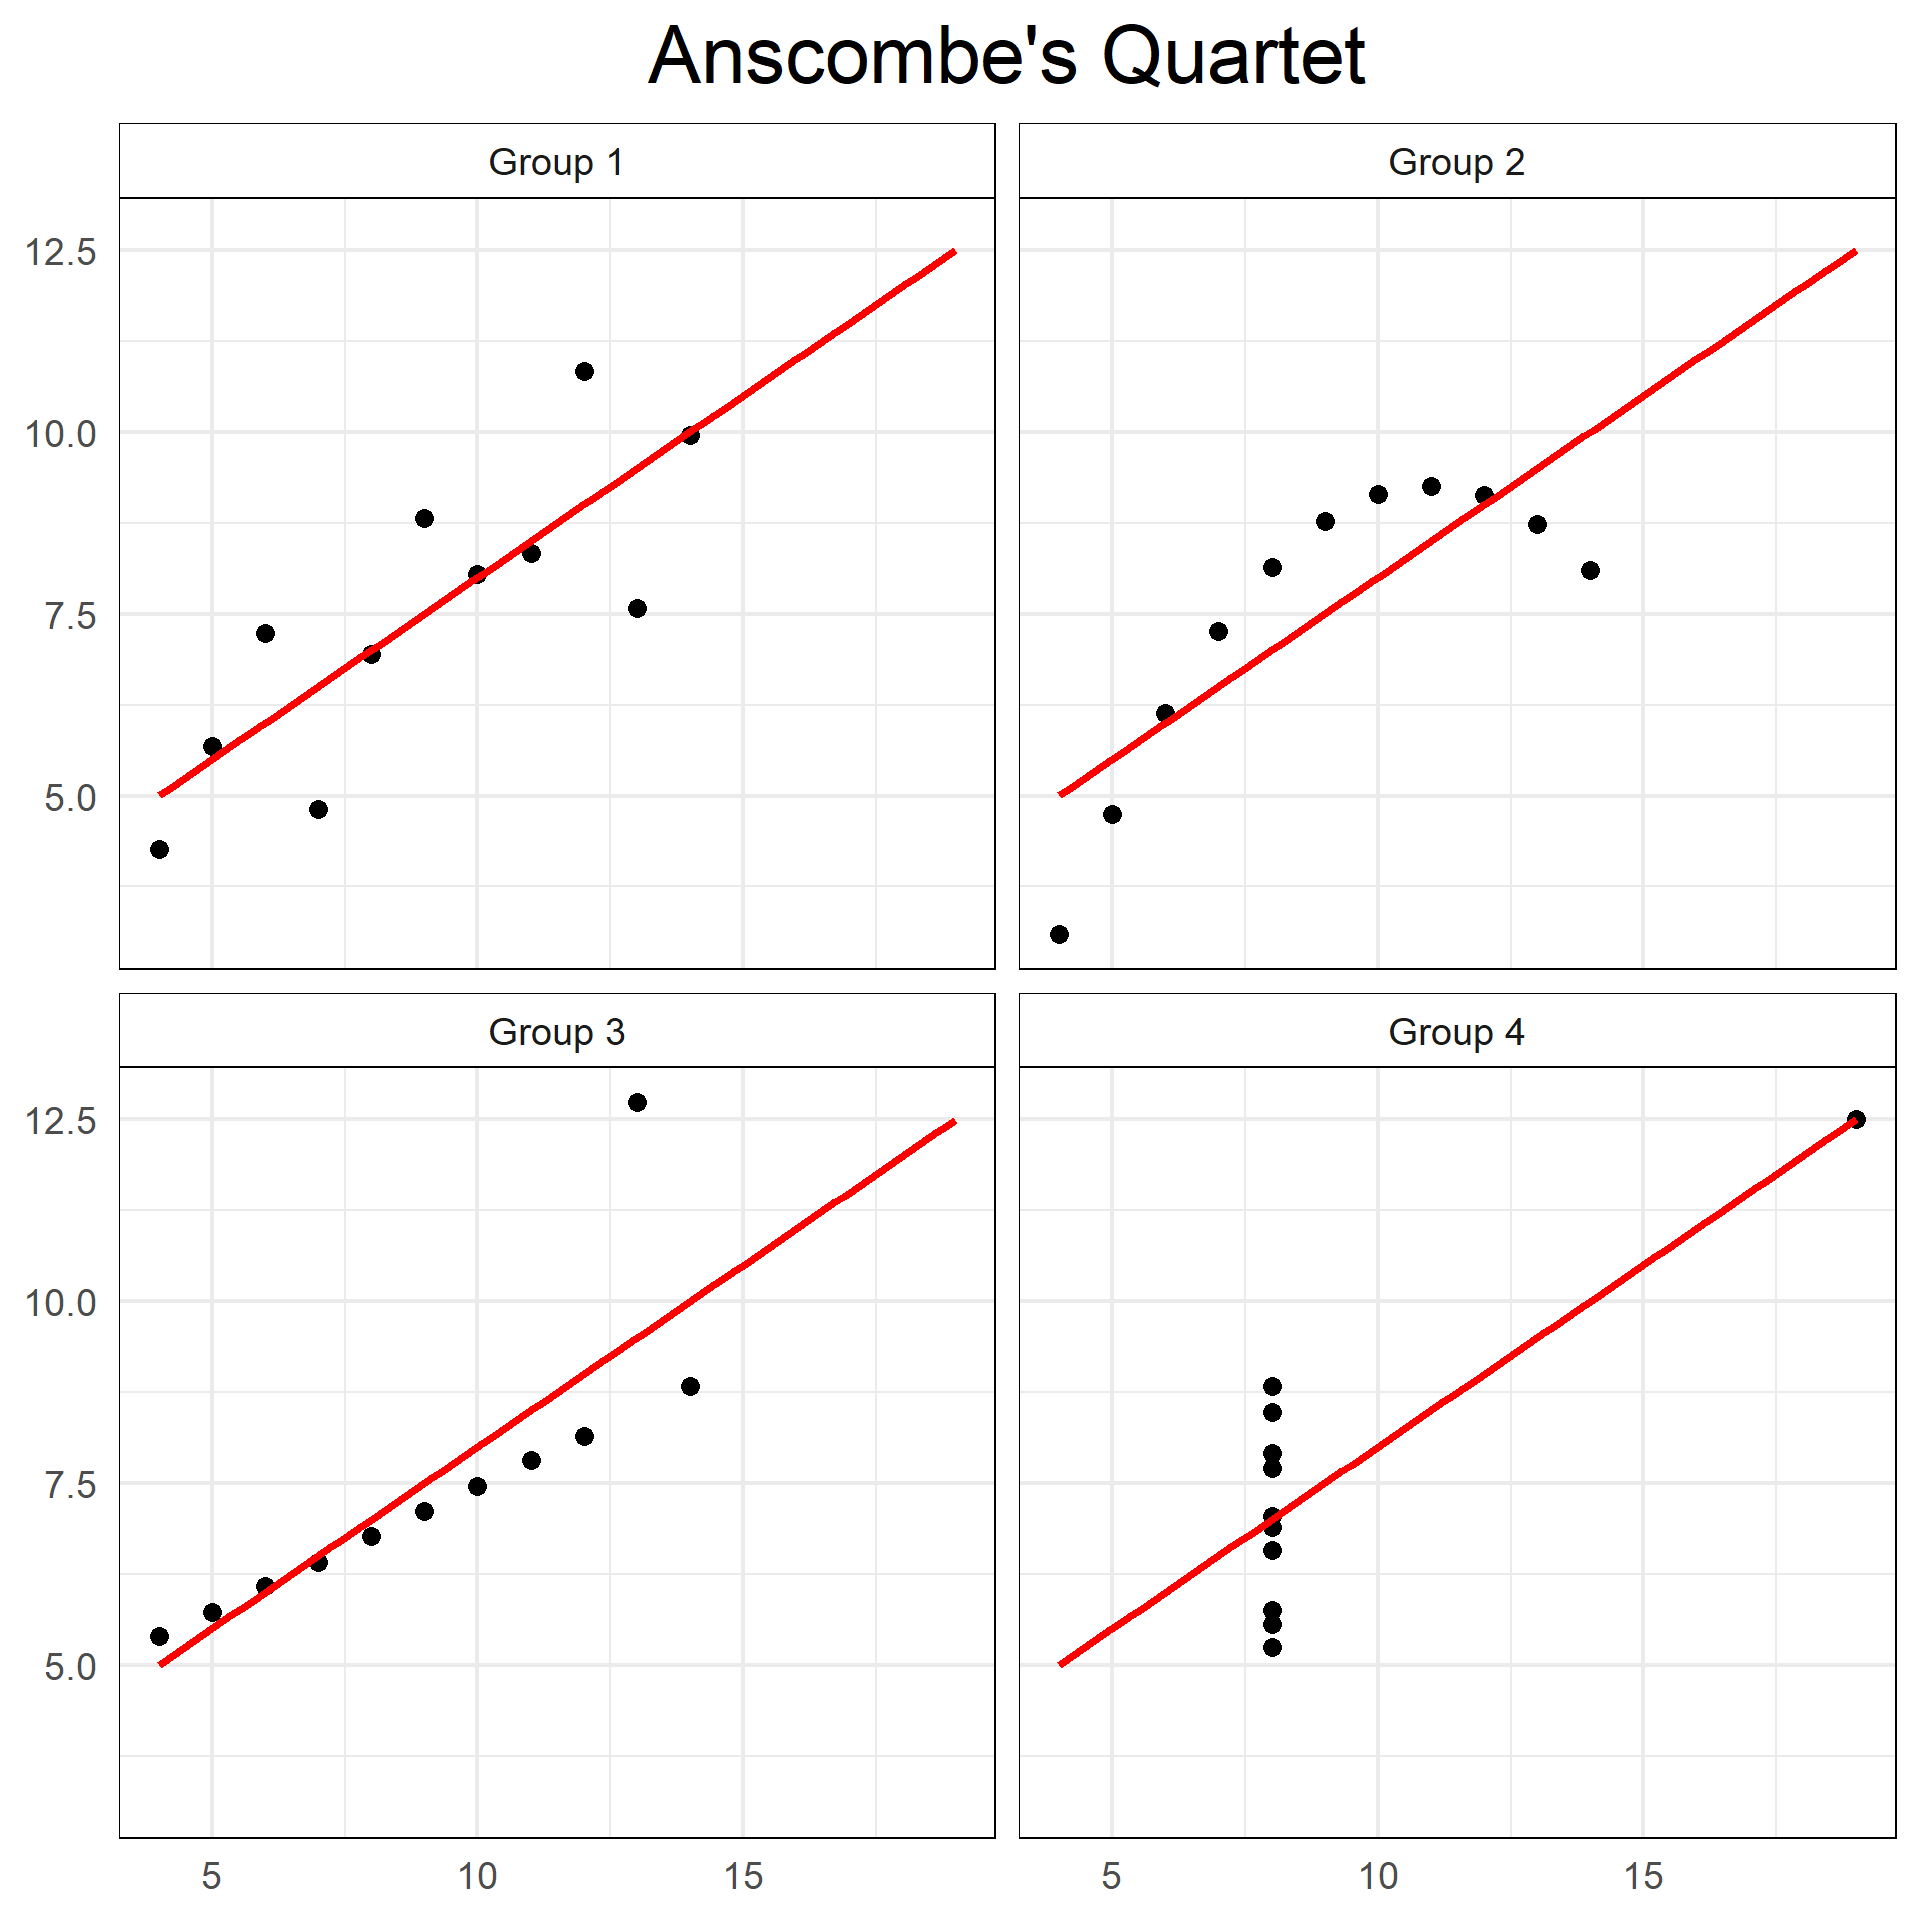
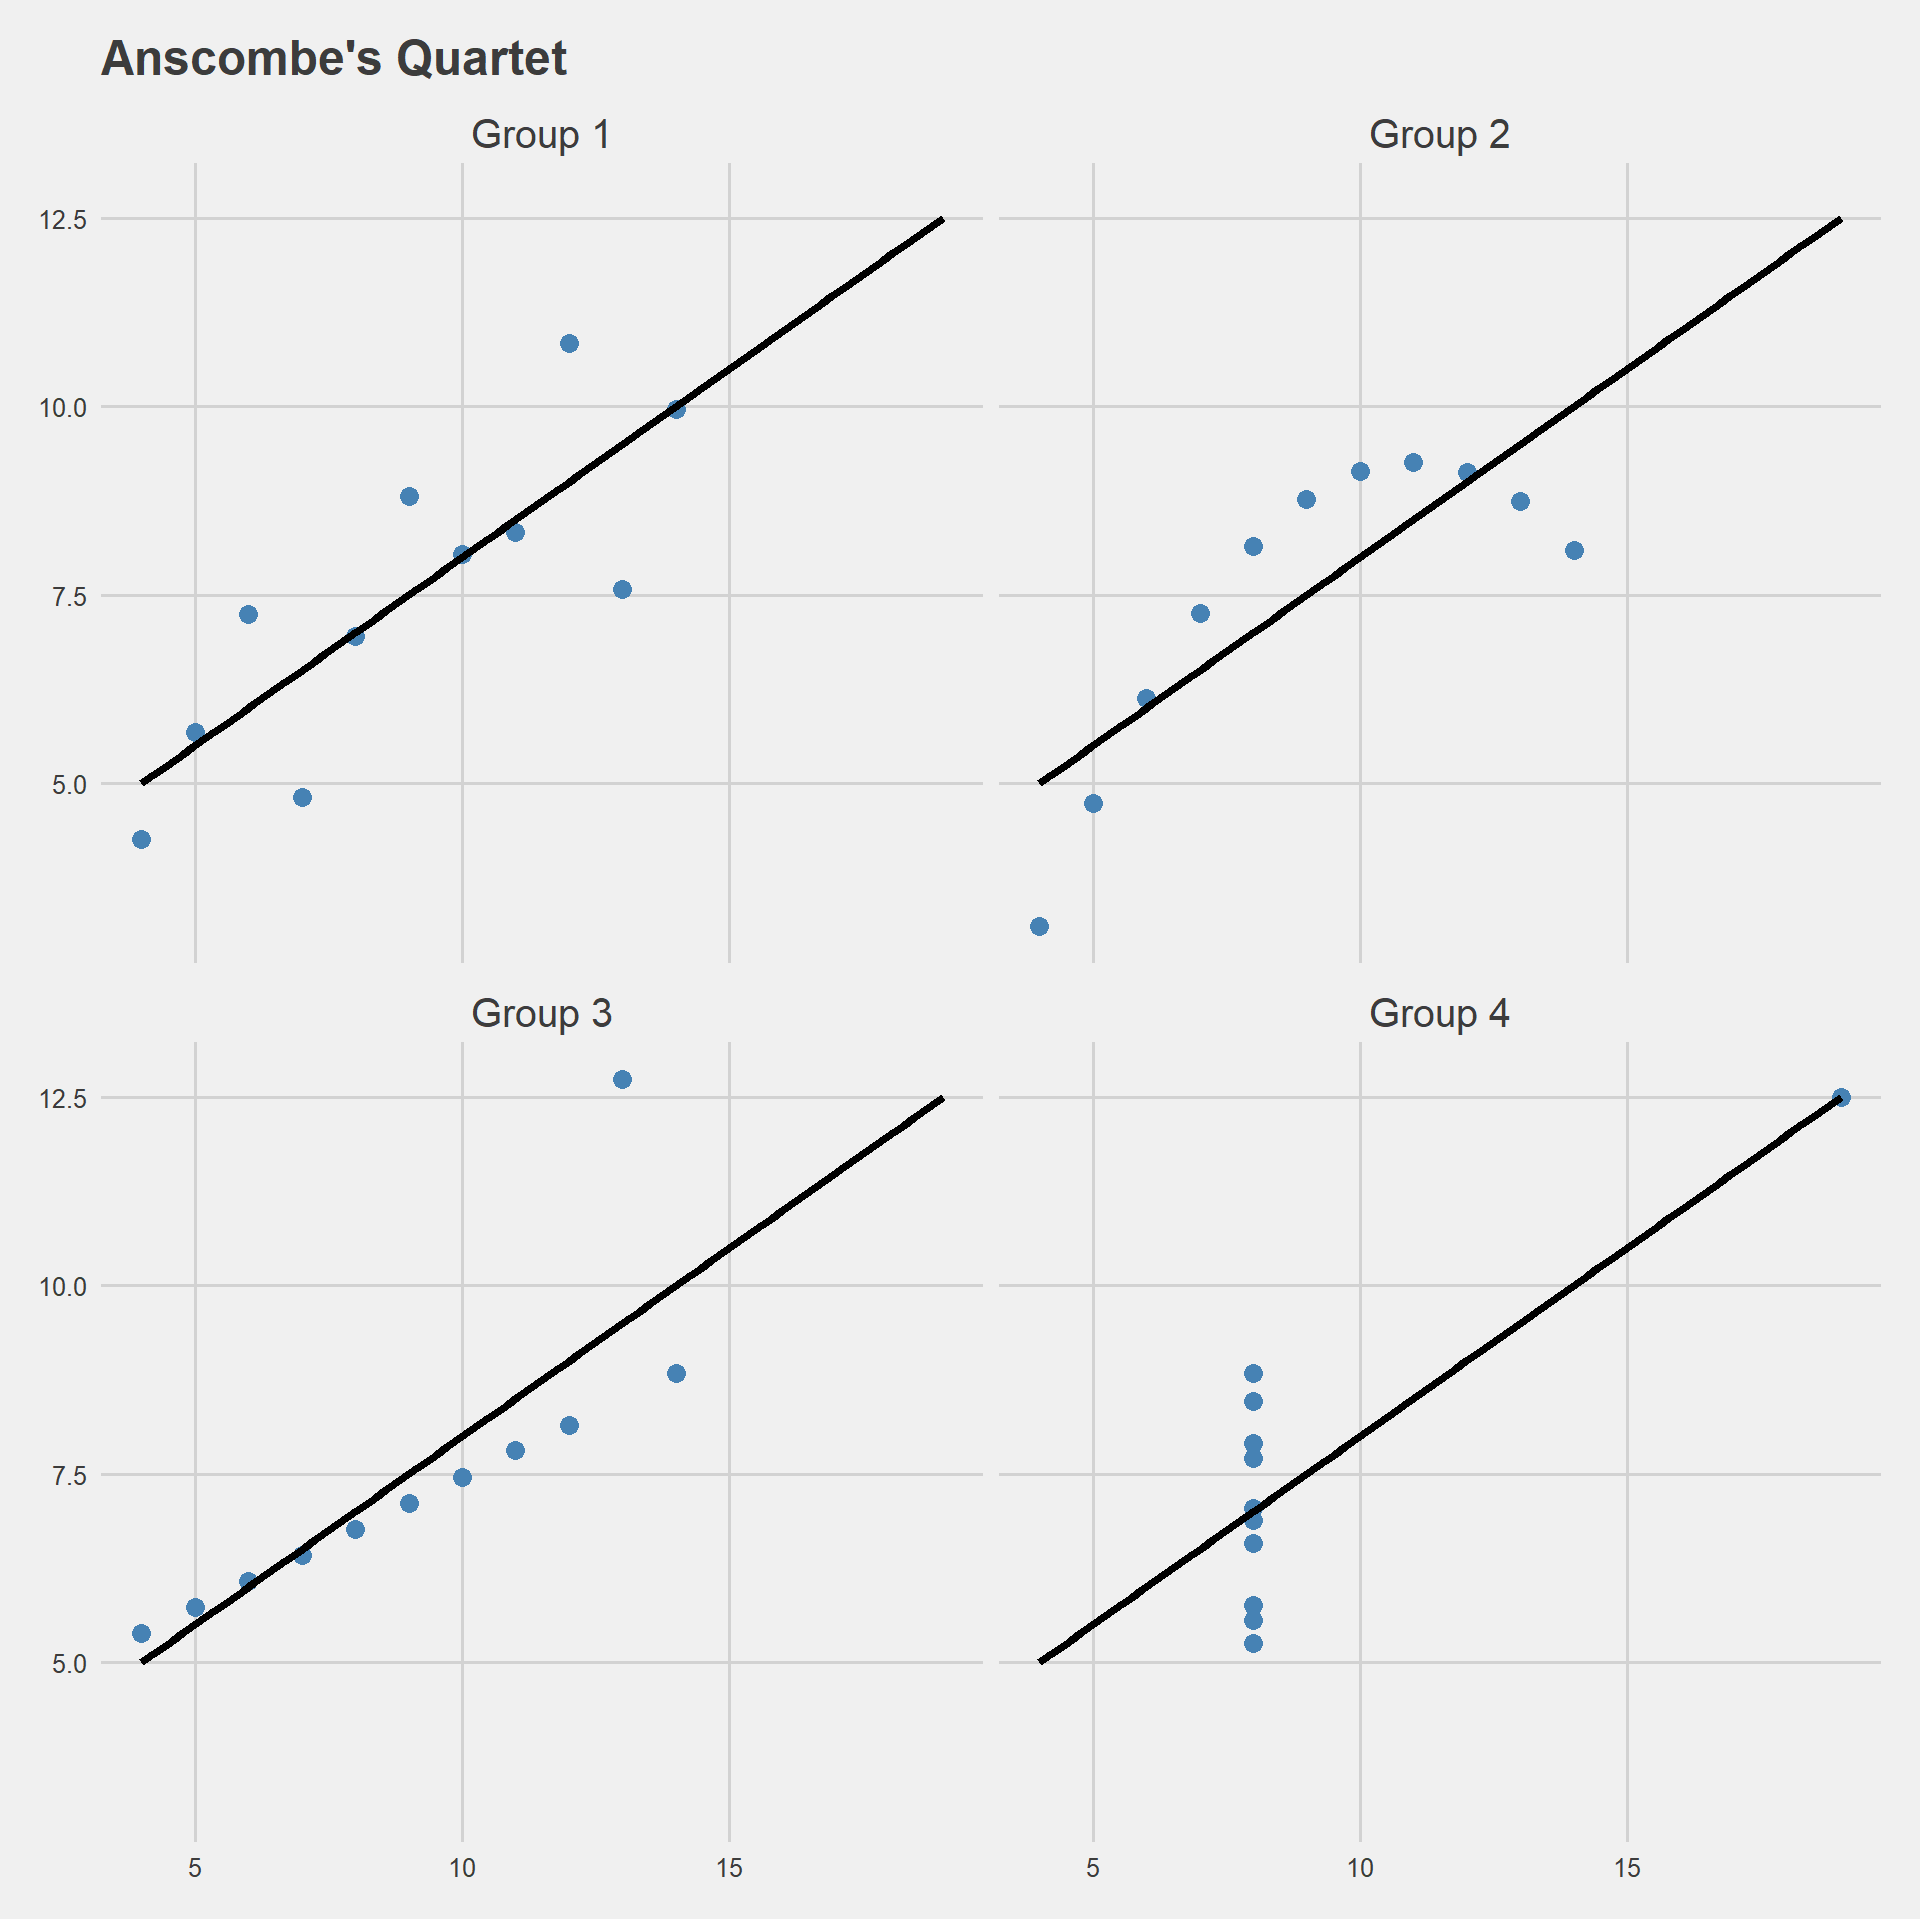
plot theme, readme with image, make csv

diff --git a/Anscombe.html b/Anscombe.html
@@ -118,7 +118,7 @@ code span.wa { color: #60a0b0; font-weight: bold; font-style: italic; } /* Warni
 
 <section id="introduction" class="level1">
 <h1>Introduction</h1>
-<p>Anscombe’s quartet comprises four data sets that have nearly identical simple descriptive statistics, yet have very different distributions and appear very different when graphed. I am going to repeat calculations and graphs using a <em>tidy</em> approach.</p>
+<p>Anscombe’s quartet comprises four data sets that have nearly identical simple descriptive statistics, yet have very different distributions and appear very different when graphed. I am going to repeat calculations and graphs using a <em>tidyverse</em> approach.</p>
 </section>
 <section id="packages" class="level1">
 <h1>Packages</h1>
@@ -126,9 +126,9 @@ code span.wa { color: #60a0b0; font-weight: bold; font-style: italic; } /* Warni
 <div class="sourceCode cell-code" id="cb1"><pre class="sourceCode r code-with-copy"><code class="sourceCode r"><span id="cb1-1"><a href="#cb1-1" aria-hidden="true" tabindex="-1"></a><span class="fu">library</span>(tidyverse)</span>
 <span id="cb1-2"><a href="#cb1-2" aria-hidden="true" tabindex="-1"></a><span class="fu">library</span>(tidymodels)</span>
 <span id="cb1-3"><a href="#cb1-3" aria-hidden="true" tabindex="-1"></a></span>
-<span id="cb1-4"><a href="#cb1-4" aria-hidden="true" tabindex="-1"></a><span class="fu">library</span>(kableExtra)</span>
+<span id="cb1-4"><a href="#cb1-4" aria-hidden="true" tabindex="-1"></a><span class="fu">library</span>(ggthemes)</span>
 <span id="cb1-5"><a href="#cb1-5" aria-hidden="true" tabindex="-1"></a></span>
-<span id="cb1-6"><a href="#cb1-6" aria-hidden="true" tabindex="-1"></a><span class="fu">theme_set</span>(<span class="fu">theme_minimal</span>(<span class="dv">18</span>))</span></code><button title="Copy to Clipboard" class="code-copy-button"><i class="bi"></i></button></pre></div>
+<span id="cb1-6"><a href="#cb1-6" aria-hidden="true" tabindex="-1"></a><span class="fu">library</span>(kableExtra)</span></code><button title="Copy to Clipboard" class="code-copy-button"><i class="bi"></i></button></pre></div>
 </div>
 </section>
 <section id="data" class="level1">
@@ -302,41 +302,29 @@ dbl (2): x, y
 <h1>Scatterplots</h1>
 <p>Finally let’s plot the four datasets.</p>
 <div class="cell" data-layout-align="center">
-<div class="sourceCode cell-code" id="cb5"><pre class="sourceCode r code-with-copy"><code class="sourceCode r"><span id="cb5-1"><a href="#cb5-1" aria-hidden="true" tabindex="-1"></a>data <span class="sc">%&gt;%</span></span>
+<div class="sourceCode cell-code" id="cb5"><pre class="sourceCode r code-with-copy"><code class="sourceCode r"><span id="cb5-1"><a href="#cb5-1" aria-hidden="true" tabindex="-1"></a>plot <span class="ot">&lt;-</span> data <span class="sc">%&gt;%</span></span>
 <span id="cb5-2"><a href="#cb5-2" aria-hidden="true" tabindex="-1"></a>    </span>
 <span id="cb5-3"><a href="#cb5-3" aria-hidden="true" tabindex="-1"></a>    <span class="fu">ggplot</span>(<span class="at">mapping =</span> <span class="fu">aes</span>(<span class="at">x =</span> x, <span class="at">y =</span> y)) <span class="sc">+</span></span>
 <span id="cb5-4"><a href="#cb5-4" aria-hidden="true" tabindex="-1"></a>    </span>
 <span id="cb5-5"><a href="#cb5-5" aria-hidden="true" tabindex="-1"></a>    <span class="fu">labs</span>(<span class="at">title =</span> <span class="st">"Anscombe's Quartet"</span>) <span class="sc">+</span></span>
 <span id="cb5-6"><a href="#cb5-6" aria-hidden="true" tabindex="-1"></a>    </span>
-<span id="cb5-7"><a href="#cb5-7" aria-hidden="true" tabindex="-1"></a>    <span class="fu">geom_point</span>(<span class="at">size =</span> <span class="dv">3</span>) <span class="sc">+</span></span>
+<span id="cb5-7"><a href="#cb5-7" aria-hidden="true" tabindex="-1"></a>    <span class="fu">geom_point</span>(<span class="at">size =</span> <span class="dv">3</span>, <span class="at">color =</span> <span class="st">"steelblue"</span>) <span class="sc">+</span></span>
 <span id="cb5-8"><a href="#cb5-8" aria-hidden="true" tabindex="-1"></a>    </span>
-<span id="cb5-9"><a href="#cb5-9" aria-hidden="true" tabindex="-1"></a>    <span class="fu">geom_smooth</span>(<span class="at">method =</span> <span class="st">"lm"</span>, <span class="at">se =</span> <span class="cn">FALSE</span>,</span>
+<span id="cb5-9"><a href="#cb5-9" aria-hidden="true" tabindex="-1"></a>    <span class="fu">geom_smooth</span>(<span class="at">method =</span> <span class="st">"lm"</span>, <span class="at">se =</span> <span class="cn">FALSE</span>, <span class="at">alpha =</span> <span class="fl">0.1</span>,</span>
 <span id="cb5-10"><a href="#cb5-10" aria-hidden="true" tabindex="-1"></a>                </span>
-<span id="cb5-11"><a href="#cb5-11" aria-hidden="true" tabindex="-1"></a>                <span class="at">color =</span> <span class="st">"red"</span>, <span class="at">fullrange =</span> <span class="cn">TRUE</span>, <span class="at">size =</span> <span class="fl">1.5</span>) <span class="sc">+</span></span>
+<span id="cb5-11"><a href="#cb5-11" aria-hidden="true" tabindex="-1"></a>                <span class="at">color =</span> <span class="st">"black"</span>, <span class="at">fullrange =</span> <span class="cn">TRUE</span>, <span class="at">size =</span> <span class="fl">1.5</span>) <span class="sc">+</span></span>
 <span id="cb5-12"><a href="#cb5-12" aria-hidden="true" tabindex="-1"></a>    </span>
-<span id="cb5-13"><a href="#cb5-13" aria-hidden="true" tabindex="-1"></a>    <span class="fu">facet_wrap</span>(<span class="sc">~</span>group, </span>
-<span id="cb5-14"><a href="#cb5-14" aria-hidden="true" tabindex="-1"></a>               </span>
-<span id="cb5-15"><a href="#cb5-15" aria-hidden="true" tabindex="-1"></a>               <span class="at">labeller =</span> <span class="fu">as_labeller</span>(</span>
-<span id="cb5-16"><a href="#cb5-16" aria-hidden="true" tabindex="-1"></a>                   <span class="fu">c</span>(<span class="st">`</span><span class="at">Group_1</span><span class="st">`</span> <span class="ot">=</span> <span class="st">"Group 1"</span>,</span>
-<span id="cb5-17"><a href="#cb5-17" aria-hidden="true" tabindex="-1"></a>                     <span class="st">`</span><span class="at">Group_2</span><span class="st">`</span> <span class="ot">=</span> <span class="st">"Group 2"</span>,</span>
-<span id="cb5-18"><a href="#cb5-18" aria-hidden="true" tabindex="-1"></a>                     <span class="st">`</span><span class="at">Group_3</span><span class="st">`</span> <span class="ot">=</span> <span class="st">"Group 3"</span>,</span>
-<span id="cb5-19"><a href="#cb5-19" aria-hidden="true" tabindex="-1"></a>                     <span class="st">`</span><span class="at">Group_4</span><span class="st">`</span> <span class="ot">=</span> <span class="st">"Group 4"</span>))</span>
-<span id="cb5-20"><a href="#cb5-20" aria-hidden="true" tabindex="-1"></a>    ) <span class="sc">+</span></span>
-<span id="cb5-21"><a href="#cb5-21" aria-hidden="true" tabindex="-1"></a>    </span>
-<span id="cb5-22"><a href="#cb5-22" aria-hidden="true" tabindex="-1"></a>    <span class="fu">theme</span>(<span class="at">plot.title       =</span> <span class="fu">element_text</span>(<span class="at">hjust =</span> <span class="fl">0.5</span>, <span class="at">size =</span> <span class="dv">30</span>),</span>
-<span id="cb5-23"><a href="#cb5-23" aria-hidden="true" tabindex="-1"></a>          </span>
-<span id="cb5-24"><a href="#cb5-24" aria-hidden="true" tabindex="-1"></a>          <span class="at">axis.title.x     =</span> <span class="fu">element_blank</span>(),</span>
-<span id="cb5-25"><a href="#cb5-25" aria-hidden="true" tabindex="-1"></a>          </span>
-<span id="cb5-26"><a href="#cb5-26" aria-hidden="true" tabindex="-1"></a>          <span class="at">axis.title.y     =</span> <span class="fu">element_blank</span>(),</span>
-<span id="cb5-27"><a href="#cb5-27" aria-hidden="true" tabindex="-1"></a>          </span>
-<span id="cb5-28"><a href="#cb5-28" aria-hidden="true" tabindex="-1"></a>          <span class="at">strip.background =</span> <span class="fu">element_rect</span>(<span class="at">color=</span><span class="st">"black"</span>, <span class="at">size=</span><span class="fl">0.5</span>,</span>
-<span id="cb5-29"><a href="#cb5-29" aria-hidden="true" tabindex="-1"></a>                                          </span>
-<span id="cb5-30"><a href="#cb5-30" aria-hidden="true" tabindex="-1"></a>                                          <span class="at">linetype=</span><span class="st">"solid"</span>),</span>
-<span id="cb5-31"><a href="#cb5-31" aria-hidden="true" tabindex="-1"></a>          </span>
-<span id="cb5-32"><a href="#cb5-32" aria-hidden="true" tabindex="-1"></a>          <span class="at">panel.border     =</span> <span class="fu">element_rect</span>(<span class="at">color=</span><span class="st">"black"</span>, <span class="at">size=</span><span class="fl">0.5</span>,</span>
-<span id="cb5-33"><a href="#cb5-33" aria-hidden="true" tabindex="-1"></a>                                          </span>
-<span id="cb5-34"><a href="#cb5-34" aria-hidden="true" tabindex="-1"></a>                                          <span class="at">linetype=</span><span class="st">"solid"</span>, <span class="at">fill =</span> <span class="cn">NA</span>)</span>
-<span id="cb5-35"><a href="#cb5-35" aria-hidden="true" tabindex="-1"></a>    )</span></code><button title="Copy to Clipboard" class="code-copy-button"><i class="bi"></i></button></pre></div>
+<span id="cb5-13"><a href="#cb5-13" aria-hidden="true" tabindex="-1"></a>    <span class="fu">facet_wrap</span>(<span class="sc">~</span>group, <span class="at">labeller =</span> <span class="fu">as_labeller</span>(</span>
+<span id="cb5-14"><a href="#cb5-14" aria-hidden="true" tabindex="-1"></a>        <span class="fu">c</span>(<span class="st">`</span><span class="at">Group_1</span><span class="st">`</span> <span class="ot">=</span> <span class="st">"Group 1"</span>,</span>
+<span id="cb5-15"><a href="#cb5-15" aria-hidden="true" tabindex="-1"></a>          <span class="st">`</span><span class="at">Group_2</span><span class="st">`</span> <span class="ot">=</span> <span class="st">"Group 2"</span>,</span>
+<span id="cb5-16"><a href="#cb5-16" aria-hidden="true" tabindex="-1"></a>          <span class="st">`</span><span class="at">Group_3</span><span class="st">`</span> <span class="ot">=</span> <span class="st">"Group 3"</span>,</span>
+<span id="cb5-17"><a href="#cb5-17" aria-hidden="true" tabindex="-1"></a>          <span class="st">`</span><span class="at">Group_4</span><span class="st">`</span> <span class="ot">=</span> <span class="st">"Group 4"</span>))) <span class="sc">+</span></span>
+<span id="cb5-18"><a href="#cb5-18" aria-hidden="true" tabindex="-1"></a>    </span>
+<span id="cb5-19"><a href="#cb5-19" aria-hidden="true" tabindex="-1"></a>    <span class="fu">theme_fivethirtyeight</span>() <span class="sc">+</span></span>
+<span id="cb5-20"><a href="#cb5-20" aria-hidden="true" tabindex="-1"></a>    </span>
+<span id="cb5-21"><a href="#cb5-21" aria-hidden="true" tabindex="-1"></a>    <span class="fu">theme</span>(<span class="at">strip.text.x =</span> <span class="fu">element_text</span>(<span class="at">size =</span> <span class="dv">15</span>))</span>
+<span id="cb5-22"><a href="#cb5-22" aria-hidden="true" tabindex="-1"></a></span>
+<span id="cb5-23"><a href="#cb5-23" aria-hidden="true" tabindex="-1"></a>plot</span></code><button title="Copy to Clipboard" class="code-copy-button"><i class="bi"></i></button></pre></div>
 <div class="cell-output-display">
 <div class="quarto-figure quarto-figure-center">
 <figure class="figure">
@@ -344,6 +332,7 @@ dbl (2): x, y
 </figure>
 </div>
 </div>
+<div class="sourceCode cell-code" id="cb6"><pre class="sourceCode r code-with-copy"><code class="sourceCode r"><span id="cb6-1"><a href="#cb6-1" aria-hidden="true" tabindex="-1"></a><span class="fu">ggsave</span>(<span class="st">"anscombe.png"</span>, <span class="at">plot =</span> plot)</span></code><button title="Copy to Clipboard" class="code-copy-button"><i class="bi"></i></button></pre></div>
 </div>
 </section>
 <section id="references" class="level1">

diff --git a/README.md b/README.md
@@ -1,1 +1,3 @@
 Anscombe's Quartet in Tidyverse.
+
+![]("anscombe.png")
